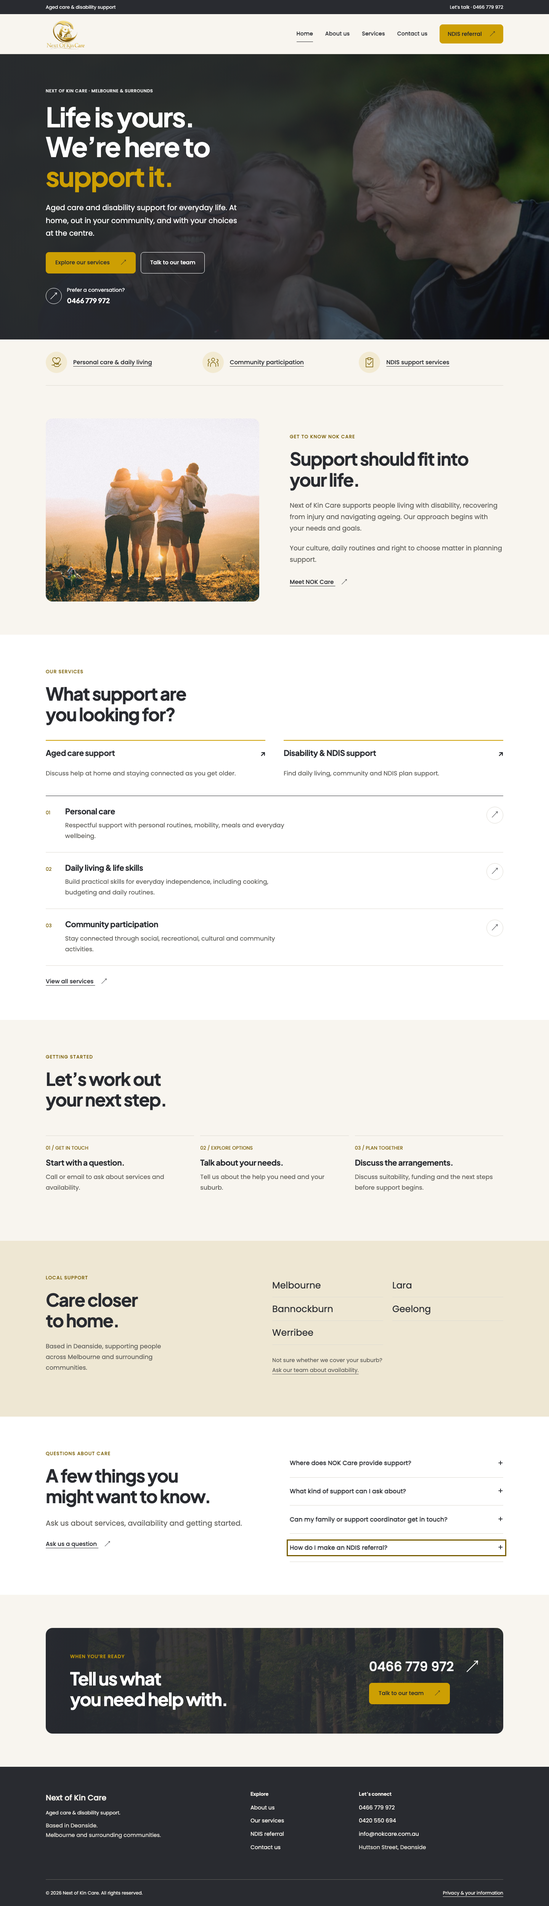
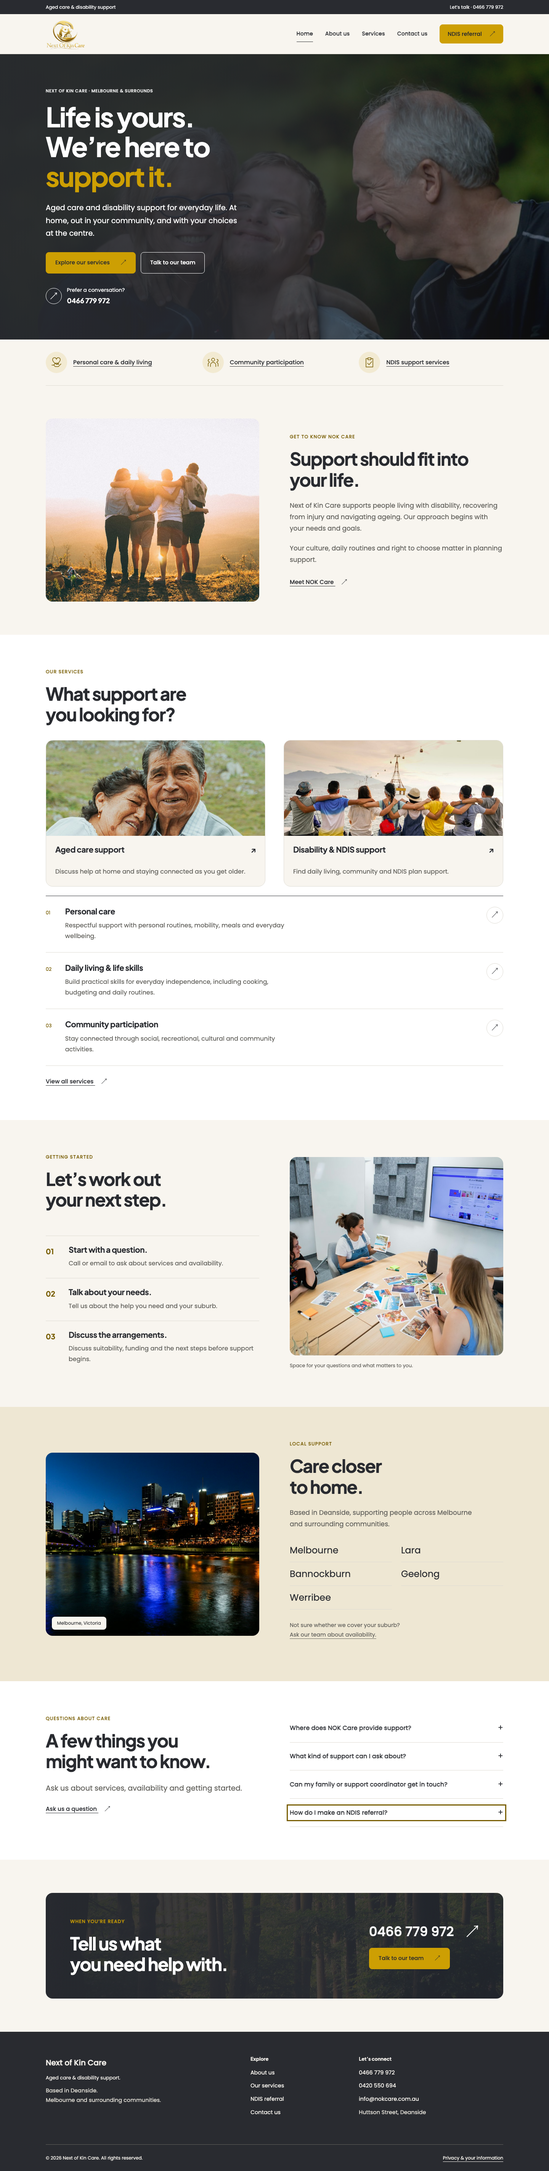
Add photography and varied image-led sections to the homepage

Changed region(s): [[0.0, 0.0, 1.0, 0.4995], [0.0, 0.5307, 1.0, 0.9678], [0.3438, 0.5932, 0.4688, 0.6244]]

diff --git a/index.html b/index.html
@@ -4,8 +4,8 @@
 <div class="container header-inner"><a class="brand" href="index.html" aria-label="Next of Kin Care home"><img src="assets/images/nok-care-logo.png" alt="Next of Kin Care" width="375" height="286"></a><button type="button" class="menu-toggle" aria-expanded="false" aria-controls="main-nav" hidden>Menu <span aria-hidden="true">☰</span></button><nav id="main-nav" aria-label="Main navigation"><a href="index.html" aria-current="page">Home</a><a href="about.html">About us</a><a href="services.html">Services</a><a href="contact.html">Contact us</a><a class="button button-small" href="referral.html">NDIS referral <span aria-hidden="true">↗</span></a></nav></div></header>
 <main id="main" tabindex="-1"><section class="home-opening"><div class="opening-image"><img src="assets/images/community-care.jpg" alt="Three people sharing a moment together outdoors" width="1100" height="751" fetchpriority="high"></div><div class="container opening-content"><div class="opening-copy"><span class="eyebrow">Next of Kin Care · Melbourne & surrounds</span><h1>Life is yours.<br>We’re here to<br><span>support it.</span></h1><p class="opening-description">Aged care and disability support for everyday life. At home, out in your community, and with your choices at the centre.</p><div class="actions"><a class="button" href="services.html">Explore our services <span aria-hidden="true">↗</span></a><a class="button button-secondary" href="contact.html">Talk to our team</a></div><a class="opening-phone" href="tel:0466779972"><span class="phone-symbol" aria-hidden="true">↗</span><span>Prefer a conversation?<strong>0466 779 972</strong></span></a></div></div></section><div class="container"><ul class="opening-footnote icon-list" role="list" aria-label="Our support services"><li><span class="icon-list-symbol"><svg viewBox="0 0 32 32" width="32" height="32" fill="none" stroke="currentColor" stroke-width="1.5" stroke-linecap="round" stroke-linejoin="round" aria-hidden="true" focusable="false"><path d="M16 21s-10-6-10-12a5 5 0 0 1 10-1 5 5 0 0 1 10 1c0 6-10 12-10 12Z"/><path d="M4 23h5l4 4h8l7-7M9 23l4-5h6a3 3 0 0 1 3 3h-6"/></svg></span><a href="services.html#personal-care">Personal care & daily living</a></li><li><span class="icon-list-symbol"><svg viewBox="0 0 32 32" width="32" height="32" fill="none" stroke="currentColor" stroke-width="1.5" stroke-linecap="round" stroke-linejoin="round" aria-hidden="true" focusable="false"><circle cx="16" cy="9" r="4"/><path d="M9 27v-4a7 7 0 0 1 14 0v4M6 8a3 3 0 0 0 0 6M26 8a3 3 0 0 1 0 6M3 26v-5a5 5 0 0 1 4-5M29 26v-5a5 5 0 0 0-4-5"/></svg></span><a href="services.html#community">Community participation</a></li><li><span class="icon-list-symbol"><svg viewBox="0 0 32 32" width="32" height="32" fill="none" stroke="currentColor" stroke-width="1.5" stroke-linecap="round" stroke-linejoin="round" aria-hidden="true" focusable="false"><path d="M11 6H7v22h18V6h-4M12 4h8v5h-8zM11 18l4 4 7-8"/></svg></span><a href="services.html#disability-support">NDIS support services</a></li></ul></div>
 <section class="section home-introduction"><div class="container introduction-grid"><img class="introduction-image" src="assets/images/family-connection.jpg" alt="Four friends standing together outdoors at sunset" width="1000" height="667" loading="lazy"><div class="introduction-copy"><span class="eyebrow">Get to know NOK Care</span><h2>Support should fit into your life.</h2><p>Next of Kin Care supports people living with disability, recovering from injury and navigating ageing. Our approach begins with your needs and goals.</p><p>Your culture, daily routines and right to choose matter in planning support.</p><a class="text-link" href="about.html">Meet NOK Care <span aria-hidden="true">↗</span></a></div></div></section>
-<section class="section home-services"><div class="container"><div class="section-heading"><div><span class="eyebrow">Our services</span><h2>What support are<br>you looking for?</h2></div></div><div class="support-pathways"><article class="support-pathway"><h3><a href="services.html#aged-care">Aged care support <span aria-hidden="true">↗</span></a></h3><p>Discuss help at home and staying connected as you get older.</p></article><article class="support-pathway"><h3><a href="services.html#disability-support">Disability & NDIS support <span aria-hidden="true">↗</span></a></h3><p>Find daily living, community and NDIS plan support.</p></article></div><div class="service-grid"><article class="service-card" id="personal-care"><span class="number" aria-hidden="true">01</span><a class="service-card-link" href="services.html#personal-care" aria-label="Read about this service: Personal care"><div class="service-copy"><h3>Personal care</h3><p>Respectful support with personal routines, mobility, meals and everyday wellbeing.</p></div><span class="service-card-action"><span class="service-link-label">Read about this service</span><span class="service-arrow" aria-hidden="true">↗</span></span></a></article><article class="service-card" id="daily-living"><span class="number" aria-hidden="true">02</span><a class="service-card-link" href="services.html#daily-living" aria-label="Read about this service: Daily living &amp; life skills"><div class="service-copy"><h3>Daily living &amp; life skills</h3><p>Build practical skills for everyday independence, including cooking, budgeting and daily routines.</p></div><span class="service-card-action"><span class="service-link-label">Read about this service</span><span class="service-arrow" aria-hidden="true">↗</span></span></a></article><article class="service-card" id="community"><span class="number" aria-hidden="true">03</span><a class="service-card-link" href="services.html#community" aria-label="Read about this service: Community participation"><div class="service-copy"><h3>Community participation</h3><p>Stay connected through social, recreational, cultural and community activities.</p></div><span class="service-card-action"><span class="service-link-label">Read about this service</span><span class="service-arrow" aria-hidden="true">↗</span></span></a></article></div><a class="text-link services-more" href="services.html">View all services <span aria-hidden="true">↗</span></a></div></section>
-<section class="section getting-started"><div class="container"><div class="section-heading"><div><span class="eyebrow">Getting started</span><h2>Let’s work out<br>your next step.</h2></div></div><ol class="steps process-list" role="list"><li class="step"><span>01 / GET IN TOUCH</span><h3>Start with a question.</h3><p>Call or email to ask about services and availability.</p></li><li class="step"><span>02 / EXPLORE OPTIONS</span><h3>Talk about your needs.</h3><p>Tell us about the help you need and your suburb.</p></li><li class="step"><span>03 / PLAN TOGETHER</span><h3>Discuss the arrangements.</h3><p>Discuss suitability, funding and the next steps before support begins.</p></li></ol></div></section>
-<section class="section local-section"><div class="container local-grid"><div><span class="eyebrow">Local support</span><h2>Care closer<br>to home.</h2><p>Based in Deanside, supporting people across Melbourne and surrounding communities.</p></div><div class="local-areas"><div class="pills"><span class="pill">Melbourne</span><span class="pill">Lara</span><span class="pill">Bannockburn</span><span class="pill">Geelong</span><span class="pill">Werribee</span></div><p>Not sure whether we cover your suburb?<br><a href="contact.html">Ask our team about availability.</a></p></div></div></section>
+<section class="section home-services"><div class="container"><div class="section-heading"><div><span class="eyebrow">Our services</span><h2>What support are<br>you looking for?</h2></div></div><div class="support-pathways"><article class="support-pathway"><img class="pathway-photo pathway-photo-aged" src="assets/images/aged-care-companionship.jpg" alt="An older couple sharing a hug outdoors" width="900" height="1350" loading="lazy"><h3><a href="services.html#aged-care">Aged care support <span aria-hidden="true">↗</span></a></h3><p>Discuss help at home and staying connected as you get older.</p></article><article class="support-pathway"><img class="pathway-photo" src="assets/images/community-connections.jpg" alt="Friends spending time together outdoors" width="900" height="506" loading="lazy"><h3><a href="services.html#disability-support">Disability & NDIS support <span aria-hidden="true">↗</span></a></h3><p>Find daily living, community and NDIS plan support.</p></article></div><div class="service-grid"><article class="service-card" id="personal-care"><span class="number" aria-hidden="true">01</span><a class="service-card-link" href="services.html#personal-care" aria-label="Read about this service: Personal care"><div class="service-copy"><h3>Personal care</h3><p>Respectful support with personal routines, mobility, meals and everyday wellbeing.</p></div><span class="service-card-action"><span class="service-link-label">Read about this service</span><span class="service-arrow" aria-hidden="true">↗</span></span></a></article><article class="service-card" id="daily-living"><span class="number" aria-hidden="true">02</span><a class="service-card-link" href="services.html#daily-living" aria-label="Read about this service: Daily living &amp; life skills"><div class="service-copy"><h3>Daily living &amp; life skills</h3><p>Build practical skills for everyday independence, including cooking, budgeting and daily routines.</p></div><span class="service-card-action"><span class="service-link-label">Read about this service</span><span class="service-arrow" aria-hidden="true">↗</span></span></a></article><article class="service-card" id="community"><span class="number" aria-hidden="true">03</span><a class="service-card-link" href="services.html#community" aria-label="Read about this service: Community participation"><div class="service-copy"><h3>Community participation</h3><p>Stay connected through social, recreational, cultural and community activities.</p></div><span class="service-card-action"><span class="service-link-label">Read about this service</span><span class="service-arrow" aria-hidden="true">↗</span></span></a></article></div><a class="text-link services-more" href="services.html">View all services <span aria-hidden="true">↗</span></a></div></section>
+<section class="section getting-started"><div class="container getting-started-grid"><div class="getting-started-copy"><div class="section-heading"><div><span class="eyebrow">Getting started</span><h2>Let’s work out<br>your next step.</h2></div></div><ol class="steps process-list" role="list"><li class="step"><span class="step-number" aria-hidden="true">01</span><h3>Start with a question.</h3><p>Call or email to ask about services and availability.</p></li><li class="step"><span class="step-number" aria-hidden="true">02</span><h3>Talk about your needs.</h3><p>Tell us about the help you need and your suburb.</p></li><li class="step"><span class="step-number" aria-hidden="true">03</span><h3>Discuss the arrangements.</h3><p>Discuss suitability, funding and the next steps before support begins.</p></li></ol></div><figure class="getting-started-visual"><img src="assets/images/planning-together.jpg" alt="A group sharing ideas and talking around a table" width="1100" height="733" loading="lazy"><figcaption>Space for your questions and what matters to you.</figcaption></figure></div></section>
+<section class="section local-section"><div class="container local-feature"><figure class="local-photo"><img src="assets/images/melbourne-river.jpg" alt="Melbourne skyline and lights reflected in the Yarra River" width="1200" height="800" loading="lazy"><figcaption>Melbourne, Victoria</figcaption></figure><div><span class="eyebrow">Local support</span><h2>Care closer<br>to home.</h2><p>Based in Deanside, supporting people across Melbourne and surrounding communities.</p><div class="local-areas"><div class="pills"><span class="pill">Melbourne</span><span class="pill">Lara</span><span class="pill">Bannockburn</span><span class="pill">Geelong</span><span class="pill">Werribee</span></div><p>Not sure whether we cover your suburb?<br><a href="contact.html">Ask our team about availability.</a></p></div></div></div></section>
 <section class="section white"><div class="container split"><div><span class="eyebrow">Questions about care</span><h2>A few things you<br>might want to know.</h2><p class="lead">Ask us about services, availability and getting started.</p><a class="text-link" href="contact.html">Ask us a question <span aria-hidden="true">↗</span></a></div><div class="faq"><details><summary>Where does NOK Care provide support?</summary><p>Our listed service areas are Melbourne, Lara, Bannockburn, Geelong and Werribee. Contact us to discuss availability in your suburb.</p></details><details><summary>What kind of support can I ask about?</summary><p>Explore daily living, personal activities, household help, transport, community participation and NDIS services on our services page. Our team can discuss your individual needs and current availability.</p></details><details><summary>Can my family or support coordinator get in touch?</summary><p>You, a family member or a support coordinator can contact NOK Care to discuss the next steps. Please call before sharing any personal referral documents.</p></details><details><summary>How do I make an NDIS referral?</summary><p>Visit our referral page and call the team to discuss a secure way to proceed. Online referral collection is not yet available on this website.</p></details></div></div></section><section class="section"><div class="container cta"><div><span class="eyebrow">When you’re ready</span><h2>Tell us what<br>you need help with.</h2></div><div><a class="cta-phone" href="tel:0466779972">0466 779 972 <span aria-hidden="true">↗</span></a><a class="button" href="contact.html">Talk to our team <span aria-hidden="true">↗</span></a></div></div></section></main><footer class="site-footer"><div class="container footer-grid"><div><a class="footer-brand" href="index.html">Next of Kin Care<span>Aged care & disability support.</span></a><p>Based in Deanside.<br>Melbourne and surrounding communities.</p></div><div><h2>Explore</h2><a href="about.html">About us</a><a href="services.html">Our services</a><a href="referral.html">NDIS referral</a><a href="contact.html">Contact us</a></div><div><h2>Let’s connect</h2><a href="tel:0466779972">0466 779 972</a><a href="tel:0420550694">0420 550 694</a><a href="mailto:info@nokcare.com.au">info@nokcare.com.au</a><p>Huttson Street, Deanside</p></div></div><div class="container footer-bottom"><span>© 2026 Next of Kin Care. All rights reserved.</span><a href="contact.html#privacy">Privacy & your information</a></div></footer>
 </body></html>

diff --git a/templates/index.html b/templates/index.html
@@ -1,6 +1,6 @@
 <section class="home-opening"><div class="opening-image"><img src="assets/images/community-care.jpg" alt="Three people sharing a moment together outdoors" width="1100" height="751" fetchpriority="high"></div><div class="container opening-content"><div class="opening-copy"><span class="eyebrow">Next of Kin Care · Melbourne & surrounds</span><h1>Life is yours.<br>We’re here to<br><span>support it.</span></h1><p class="opening-description">Aged care and disability support for everyday life. At home, out in your community, and with your choices at the centre.</p><div class="actions"><a class="button" href="services.html">Explore our services <span aria-hidden="true">↗</span></a><a class="button button-secondary" href="contact.html">Talk to our team</a></div><a class="opening-phone" href="tel:{{phone_link}}"><span class="phone-symbol" aria-hidden="true">↗</span><span>Prefer a conversation?<strong>{{phone}}</strong></span></a></div></div></section><div class="container"><ul class="opening-footnote icon-list" role="list" aria-label="Our support services"><li><span class="icon-list-symbol"><svg viewBox="0 0 32 32" width="32" height="32" fill="none" stroke="currentColor" stroke-width="1.5" stroke-linecap="round" stroke-linejoin="round" aria-hidden="true" focusable="false"><path d="M16 21s-10-6-10-12a5 5 0 0 1 10-1 5 5 0 0 1 10 1c0 6-10 12-10 12Z"/><path d="M4 23h5l4 4h8l7-7M9 23l4-5h6a3 3 0 0 1 3 3h-6"/></svg></span><a href="services.html#personal-care">Personal care & daily living</a></li><li><span class="icon-list-symbol"><svg viewBox="0 0 32 32" width="32" height="32" fill="none" stroke="currentColor" stroke-width="1.5" stroke-linecap="round" stroke-linejoin="round" aria-hidden="true" focusable="false"><circle cx="16" cy="9" r="4"/><path d="M9 27v-4a7 7 0 0 1 14 0v4M6 8a3 3 0 0 0 0 6M26 8a3 3 0 0 1 0 6M3 26v-5a5 5 0 0 1 4-5M29 26v-5a5 5 0 0 0-4-5"/></svg></span><a href="services.html#community">Community participation</a></li><li><span class="icon-list-symbol"><svg viewBox="0 0 32 32" width="32" height="32" fill="none" stroke="currentColor" stroke-width="1.5" stroke-linecap="round" stroke-linejoin="round" aria-hidden="true" focusable="false"><path d="M11 6H7v22h18V6h-4M12 4h8v5h-8zM11 18l4 4 7-8"/></svg></span><a href="services.html#disability-support">NDIS support services</a></li></ul></div>
 <section class="section home-introduction"><div class="container introduction-grid"><img class="introduction-image" src="assets/images/family-connection.jpg" alt="Four friends standing together outdoors at sunset" width="1000" height="667" loading="lazy"><div class="introduction-copy"><span class="eyebrow">Get to know NOK Care</span><h2>Support should fit into your life.</h2><p>Next of Kin Care supports people living with disability, recovering from injury and navigating ageing. Our approach begins with your needs and goals.</p><p>Your culture, daily routines and right to choose matter in planning support.</p><a class="text-link" href="about.html">Meet NOK Care <span aria-hidden="true">↗</span></a></div></div></section>
-<section class="section home-services"><div class="container"><div class="section-heading"><div><span class="eyebrow">Our services</span><h2>What support are<br>you looking for?</h2></div></div><div class="support-pathways"><article class="support-pathway"><h3><a href="services.html#aged-care">Aged care support <span aria-hidden="true">↗</span></a></h3><p>Discuss help at home and staying connected as you get older.</p></article><article class="support-pathway"><h3><a href="services.html#disability-support">Disability & NDIS support <span aria-hidden="true">↗</span></a></h3><p>Find daily living, community and NDIS plan support.</p></article></div>{{featured_services}}<a class="text-link services-more" href="services.html">View all services <span aria-hidden="true">↗</span></a></div></section>
-<section class="section getting-started"><div class="container"><div class="section-heading"><div><span class="eyebrow">Getting started</span><h2>Let’s work out<br>your next step.</h2></div></div><ol class="steps process-list" role="list"><li class="step"><span>01 / GET IN TOUCH</span><h3>Start with a question.</h3><p>Call or email to ask about services and availability.</p></li><li class="step"><span>02 / EXPLORE OPTIONS</span><h3>Talk about your needs.</h3><p>Tell us about the help you need and your suburb.</p></li><li class="step"><span>03 / PLAN TOGETHER</span><h3>Discuss the arrangements.</h3><p>Discuss suitability, funding and the next steps before support begins.</p></li></ol></div></section>
-<section class="section local-section"><div class="container local-grid"><div><span class="eyebrow">Local support</span><h2>Care closer<br>to home.</h2><p>Based in Deanside, supporting people across Melbourne and surrounding communities.</p></div><div class="local-areas">{{areas}}<p>Not sure whether we cover your suburb?<br><a href="contact.html">Ask our team about availability.</a></p></div></div></section>
+<section class="section home-services"><div class="container"><div class="section-heading"><div><span class="eyebrow">Our services</span><h2>What support are<br>you looking for?</h2></div></div><div class="support-pathways"><article class="support-pathway"><img class="pathway-photo pathway-photo-aged" src="assets/images/aged-care-companionship.jpg" alt="An older couple sharing a hug outdoors" width="900" height="1350" loading="lazy"><h3><a href="services.html#aged-care">Aged care support <span aria-hidden="true">↗</span></a></h3><p>Discuss help at home and staying connected as you get older.</p></article><article class="support-pathway"><img class="pathway-photo" src="assets/images/community-connections.jpg" alt="Friends spending time together outdoors" width="900" height="506" loading="lazy"><h3><a href="services.html#disability-support">Disability & NDIS support <span aria-hidden="true">↗</span></a></h3><p>Find daily living, community and NDIS plan support.</p></article></div>{{featured_services}}<a class="text-link services-more" href="services.html">View all services <span aria-hidden="true">↗</span></a></div></section>
+<section class="section getting-started"><div class="container getting-started-grid"><div class="getting-started-copy"><div class="section-heading"><div><span class="eyebrow">Getting started</span><h2>Let’s work out<br>your next step.</h2></div></div><ol class="steps process-list" role="list"><li class="step"><span class="step-number" aria-hidden="true">01</span><h3>Start with a question.</h3><p>Call or email to ask about services and availability.</p></li><li class="step"><span class="step-number" aria-hidden="true">02</span><h3>Talk about your needs.</h3><p>Tell us about the help you need and your suburb.</p></li><li class="step"><span class="step-number" aria-hidden="true">03</span><h3>Discuss the arrangements.</h3><p>Discuss suitability, funding and the next steps before support begins.</p></li></ol></div><figure class="getting-started-visual"><img src="assets/images/planning-together.jpg" alt="A group sharing ideas and talking around a table" width="1100" height="733" loading="lazy"><figcaption>Space for your questions and what matters to you.</figcaption></figure></div></section>
+<section class="section local-section"><div class="container local-feature"><figure class="local-photo"><img src="assets/images/melbourne-river.jpg" alt="Melbourne skyline and lights reflected in the Yarra River" width="1200" height="800" loading="lazy"><figcaption>Melbourne, Victoria</figcaption></figure><div><span class="eyebrow">Local support</span><h2>Care closer<br>to home.</h2><p>Based in Deanside, supporting people across Melbourne and surrounding communities.</p><div class="local-areas">{{areas}}<p>Not sure whether we cover your suburb?<br><a href="contact.html">Ask our team about availability.</a></p></div></div></div></section>
 <section class="section white"><div class="container split"><div><span class="eyebrow">Questions about care</span><h2>A few things you<br>might want to know.</h2><p class="lead">Ask us about services, availability and getting started.</p><a class="text-link" href="contact.html">Ask us a question <span aria-hidden="true">↗</span></a></div><div class="faq"><details><summary>Where does NOK Care provide support?</summary><p>Our listed service areas are Melbourne, Lara, Bannockburn, Geelong and Werribee. Contact us to discuss availability in your suburb.</p></details><details><summary>What kind of support can I ask about?</summary><p>Explore daily living, personal activities, household help, transport, community participation and NDIS services on our services page. Our team can discuss your individual needs and current availability.</p></details><details><summary>Can my family or support coordinator get in touch?</summary><p>You, a family member or a support coordinator can contact NOK Care to discuss the next steps. Please call before sharing any personal referral documents.</p></details><details><summary>How do I make an NDIS referral?</summary><p>Visit our referral page and call the team to discuss a secure way to proceed. Online referral collection is not yet available on this website.</p></details></div></div></section><section class="section"><div class="container cta"><div><span class="eyebrow">When you’re ready</span><h2>Tell us what<br>you need help with.</h2></div><div><a class="cta-phone" href="tel:{{phone_link}}">{{phone}} <span aria-hidden="true">↗</span></a><a class="button" href="contact.html">Talk to our team <span aria-hidden="true">↗</span></a></div></div></section>

diff --git a/css/layout.css b/css/layout.css
@@ -66,8 +66,22 @@
   .reveal.is-pending { opacity: 0; transform: translateY(16px); }
 }
 
-.home-services .support-pathway { padding-block: 1.25rem; }
-.home-services .support-pathway h3 { margin-bottom: .5rem; }
-.getting-started .steps { gap: 1rem; margin-top: 1.5rem; }
-.getting-started .step { padding-block: 1rem; }
-.getting-started .step h3 { margin-block: .75rem; }
+.home-services .support-pathway { position: relative; padding: 0 0 1.5rem; background: var(--warm); border: 1px solid var(--line); border-radius: var(--radius); overflow: hidden; }
+.home-services .support-pathway h3 { padding: 1.5rem 1.5rem 0; margin-bottom: .75rem; }
+.home-services .support-pathway h3 a::after { content: ''; position: absolute; inset: 0; }
+.home-services .support-pathway p { padding-inline: 1.5rem; }
+.pathway-photo { width: 100%; height: 250px; object-position: center 65%; }
+.pathway-photo-aged { object-position: center 15%; }
+.getting-started-grid { display: grid; align-items: center; gap: 2.5rem; }
+.getting-started .steps { grid-template-columns: 1fr; gap: 0; margin-top: 1.5rem; }
+.getting-started .step { display: grid; grid-template-columns: 44px minmax(0, 1fr); column-gap: 1rem; padding-block: 1.5rem; }
+.getting-started .step-number { grid-row: span 2; font-family: var(--font-heading); font-weight: 700; font-size: 1.2rem; }
+.getting-started .step h3 { margin: 0 0 .65rem; }
+.getting-started .step p { margin-bottom: 0; }
+.getting-started-visual img { width: 100%; height: 360px; border-radius: var(--radius); object-position: center; }
+.getting-started-visual figcaption { margin-top: 1rem; font-size: .8rem; color: var(--muted); }
+.local-feature { display: grid; gap: 2.5rem; align-items: center; }
+.local-photo { position: relative; }
+.local-photo img { width: 100%; height: 320px; border-radius: var(--radius); }
+.local-photo figcaption { position: absolute; left: 1rem; bottom: 1rem; padding: .4rem .85rem; font-size: .75rem; background: var(--warm); color: var(--ink); border-radius: var(--small-radius); }
+.local-feature > div > p { max-width: 500px; color: var(--muted); }

diff --git a/css/responsive.css b/css/responsive.css
@@ -1,4 +1,7 @@
 @media (min-width: 700px) {
+  .getting-started-grid, .local-feature { grid-template-columns: 1fr 1fr; gap: 3rem; }
+  .getting-started-visual img { height: 520px; }
+  .local-photo img { height: 480px; }
   .support-pathways { grid-template-columns: repeat(2, minmax(0, 1fr)); gap: 3rem; }
   .opening-footnote { grid-template-columns: repeat(3, minmax(0, 1fr)); gap: 2rem; }
   .introduction-grid { grid-template-columns: 1fr 1fr; gap: 3rem; }
@@ -14,6 +17,7 @@
   .local-grid { grid-template-columns: 1fr 1fr; gap: 4rem; }
 }
 @media (min-width: 1000px) {
+  .getting-started-grid, .local-feature { gap: 5rem; }
   .introduction-grid { gap: 5rem; }
   .introduction-image { height: 480px; }
   .editorial-row, .page-heading { grid-template-columns: 1fr 2.6fr; gap: 4rem; }
@@ -40,6 +44,10 @@
   .home-services .editorial-row > div:first-child .text-link { margin-bottom: 1rem; }
 }
 @media (max-width: 699px) {
+  .pathway-photo { height: 190px; }
+  .getting-started-visual { order: -1; }
+  .getting-started-visual img { height: 260px; }
+  .local-photo img { height: 240px; }
   .introduction-image { height: auto; aspect-ratio: 3 / 2; }
   .home-services .section-heading { margin-bottom: 1.5rem; }
   .cta { background-image: linear-gradient(var(--cta-scrim-strong), var(--cta-scrim-strong)), url('../assets/images/nature.jpg'); }

diff --git a/js/main.js b/js/main.js
@@ -5,7 +5,7 @@ setupNavigation();
 // Progressive enhancement: content remains readable if observers are unsupported.
 const motionPreference = window.matchMedia('(prefers-reduced-motion: reduce)');
 if (!motionPreference.matches && 'IntersectionObserver' in window) {
-  const elements = document.querySelectorAll('.support-pathway, .section-heading, .step, .editorial-row > div, .perspective-grid > *, .introduction-grid > *, .local-grid > div, .section .split > div, .cta');
+  const elements = document.querySelectorAll('.support-pathway, .section-heading, .step, .editorial-row > div, .perspective-grid > *, .introduction-grid > *, .local-grid > div, .local-feature > *, .getting-started-grid > *, .section .split > div, .cta');
   const observer = new IntersectionObserver(entries => {
     entries.forEach(entry => {
       if (entry.isIntersecting) {

diff --git a/README.md b/README.md
@@ -78,10 +78,16 @@ Reviewed the public HTML and CSS of https://enablehub.com.au/ and https://www.ca
 
 Typography uses bold Plus Jakarta Sans headings with more open letter spacing than the previous version, Poppins body copy at 17px, larger service descriptions and navigation, and fluid heading sizes. Section spacing scales from 60px to 100px. Buttons have 54px minimum height, 8px corners, consistent padding, subtle hover elevation and moving arrows. These settings are maintained in the brand, global and component stylesheets.
 
-The homepage begins with an edge-to-edge image hero: the introduction, two actions and telephone link sit over a dark overlay for contrast. Image positioning and the overlay adapt for narrow screens; the hero grows with its content rather than clipping text. A three-item icon list sits below. The introduction pairs a left-hand image with right-hand content on tablet/desktop and stacks the image above the content on mobile. The homepage includes clear aged care and disability/NDIS pathways, linked service rows, a practical getting-started section, compact service areas, FAQ and contact panel. The introduction uses a different illustrative photograph from the hero. Service and FAQ text is at least 16px; mobile section spacing is tighter. The shared charcoal contact panel uses a quiet forest photograph beneath a dark gradient, with a telephone link and gold contact button. A stronger mobile overlay keeps its text readable. The image and gradients are defined in `css/components.css`; overlay colours are tokens in `css/brand.css`. Inner pages retain practical mastheads and readable service rows.
+The homepage begins with an edge-to-edge image hero: the introduction, two actions and telephone link sit over a dark overlay for contrast. Image positioning and the overlay adapt for narrow screens; the hero grows with its content rather than clipping text. A three-item icon list sits below. The introduction pairs a left-hand image with right-hand content on tablet/desktop and stacks the image above the content on mobile. The homepage includes two image-led aged care and disability/NDIS pathways, linked service rows, a getting-started section with a conversation photograph, and a service-area section with a Melbourne photograph. FAQ and the closing contact panel complete the page. The introduction uses a different illustrative photograph from the hero. Service and FAQ text is at least 16px; mobile section spacing is tighter. The shared charcoal contact panel uses a quiet forest photograph beneath a dark gradient, with a telephone link and gold contact button. A stronger mobile overlay keeps its text readable. The image and gradients are defined in `css/components.css`; overlay colours are tokens in `css/brand.css`. Inner pages retain practical mastheads and readable service rows.
 
 Edit the homepage composition in `templates/index.html` and the other page templates for editorial copy. Contact details, areas, services, values and metadata remain in JSON. `DESIGN_GUIDELINES.md` reflects the typography update. Motion uses native CSS transitions and IntersectionObserver with reduced-motion and keyboard-focus support. There is no animation library or looping motion.
 
 Photography is illustrative, not presented as NOK Care staff, clients or facilities. The main photo is reused from the existing NOK Care website. The editorial homepage photo is https://images.unsplash.com/photo-1511632765486-a01980e01a18 (`family-connection.jpg`). The decorative contact-panel background is `nature.jpg` (https://images.unsplash.com/photo-1441974231531-c6227db76b6e). The previously downloaded `everyday-support.jpg` (https://images.unsplash.com/photo-1544027993-37dbfe43562a) remains unused. Confirm permissions before launch.
 
 Validation: generated all five pages and passed static page/link checks, JavaScript syntax checks and Git whitespace checks. Handover QA additionally passed 1,188 checks in Chromium, Firefox and WebKit; see `qa/HANDOVER_QA.md`. Approved team and local photography remain the strongest opportunity to make the imagery specific to NOK Care.
+
+## Homepage photography
+
+The service pathways, getting-started guidance and service-area section now include photographs to break up long text sections. All new images are optimised JPEGs and lazy-loaded with explicit dimensions. Pathway images share the existing title link through a stretched-link target; keyboard navigation keeps one link per pathway. The FAQ remains a simple text accordion for readability.
+
+Sources and intended usage for the four new photographs are in `content/image-sources.json`. They illustrate companionship, social connection, discussion and Melbourne; they are not presented as NOK Care clients, staff, facilities or a specific office location. The conversation photograph was already used on NOK Care’s existing services page. Confirm rights/suitability with the customer alongside the other image assets.

diff --git a/qa/HANDOVER_QA.md b/qa/HANDOVER_QA.md
@@ -31,7 +31,7 @@ WebKit keyboard traversal uses Option+Tab to include links, consistent with macO
 
 | Review finding | Current change |
 | --- | --- |
-| Hero and introduction repeat the same photo. | Introduction uses the existing alternative illustrative photo; the repeated photo-led approach section is removed. Actual NOK Care team photography still requires approved assets. |
+| Hero and introduction repeat the same photo. | Introduction uses an alternative illustrative photo; separate photographs accompany service pathways, getting-started guidance and local support. Actual NOK Care team photography still requires approved assets. |
 | Aged care and disability visitors have one generic route. | Separate aged care and disability/NDIS links lead to relevant service-page sections. Availability/funding are explicitly confirmed with the team. |
 | Mobile service preamble precedes its heading. | Main heading appears first, followed by pathways and featured services; “View all services” follows the list. |
 | Only service arrows are linked; wording is technical. | Each row has a single link encompassing its title, description and arrow. “Personal care” is a display label; its published category is retained in the content file. |
@@ -40,7 +40,7 @@ WebKit keyboard traversal uses Option+Tab to include links, consistent with macO
 | Closing button wraps on mobile. | Shared label is “Talk to our team”; actual mobile layout confirms a single line. |
 | Contact leads to a disabled preview form. | Preview is removed. Direct phone/email links and a short enquiry-preparation guide form the contact experience. Sensitive information must be arranged through a suitable secure channel. |
 
-At 375px the homepage is **6,605px tall**, compared with 7,046px at the review: 441px shorter while adding distinct pathways and larger key text. Desktop length is 4,997px compared with 5,298px. Measurements are viewport/font specific, not a universal scroll-length target.
+Current image-led homepage height is **7,447px at 375px width** and **5,691px at 1440px width**. Added photographs increase scroll length intentionally. Image dimensions and responsive crop heights are reserved in the layout; no horizontal overflow occurred. Measurements are viewport/font specific.
 
 Actual click checks in `ux-journeys.json` verify both pathways, a Personal care title through to its service, and the service enquiry link through to phone/email contact. The contact button's mobile line length was also verified.
 
@@ -91,3 +91,9 @@ node scripts/qa-browser.cjs
 ```
 
 The runner exits nonzero for failures or an incomplete run. `QA_BASE_URL` can target a hosted subdirectory without a trailing slash. Stop the local server after testing. Deploy only the five HTML pages and the CSS, JS and asset folders; source guidance, QA tooling and Git metadata are not production assets.
+
+## Image-led visual revision
+
+Added two photographic support pathways, a group-discussion image beside the getting-started guidance, and a Melbourne/Yarra River photo beside the service areas. Images stack on mobile; pathway photo clicks reach the existing service destinations at both 375px and 1440px. Image crops were reviewed at those widths. Text and service routing remain intact. The full three-engine suite passed again: 396 checks per engine, 1,188 total, with no automated accessibility violations.
+
+The four optimised JPEGs add approximately 657KB in total and load lazily below the hero. Sources and intended illustrative usage are in `content/image-sources.json`. The photographs do not imply staff/client identities or an office address. Image suitability and rights remain part of customer acceptance.
